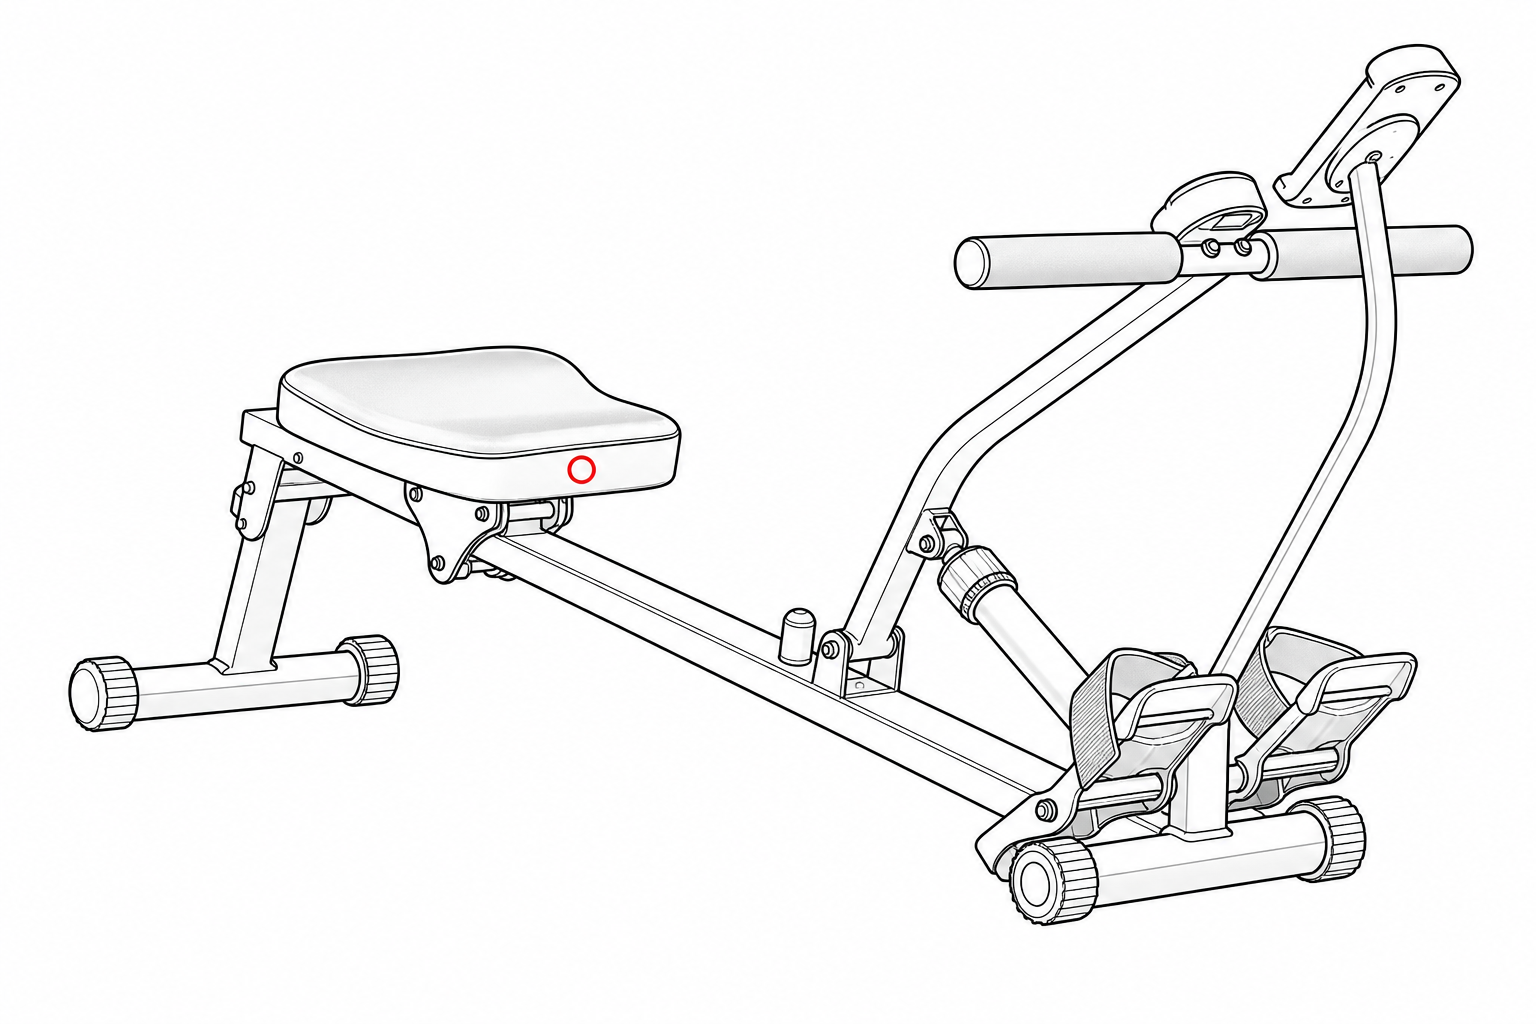
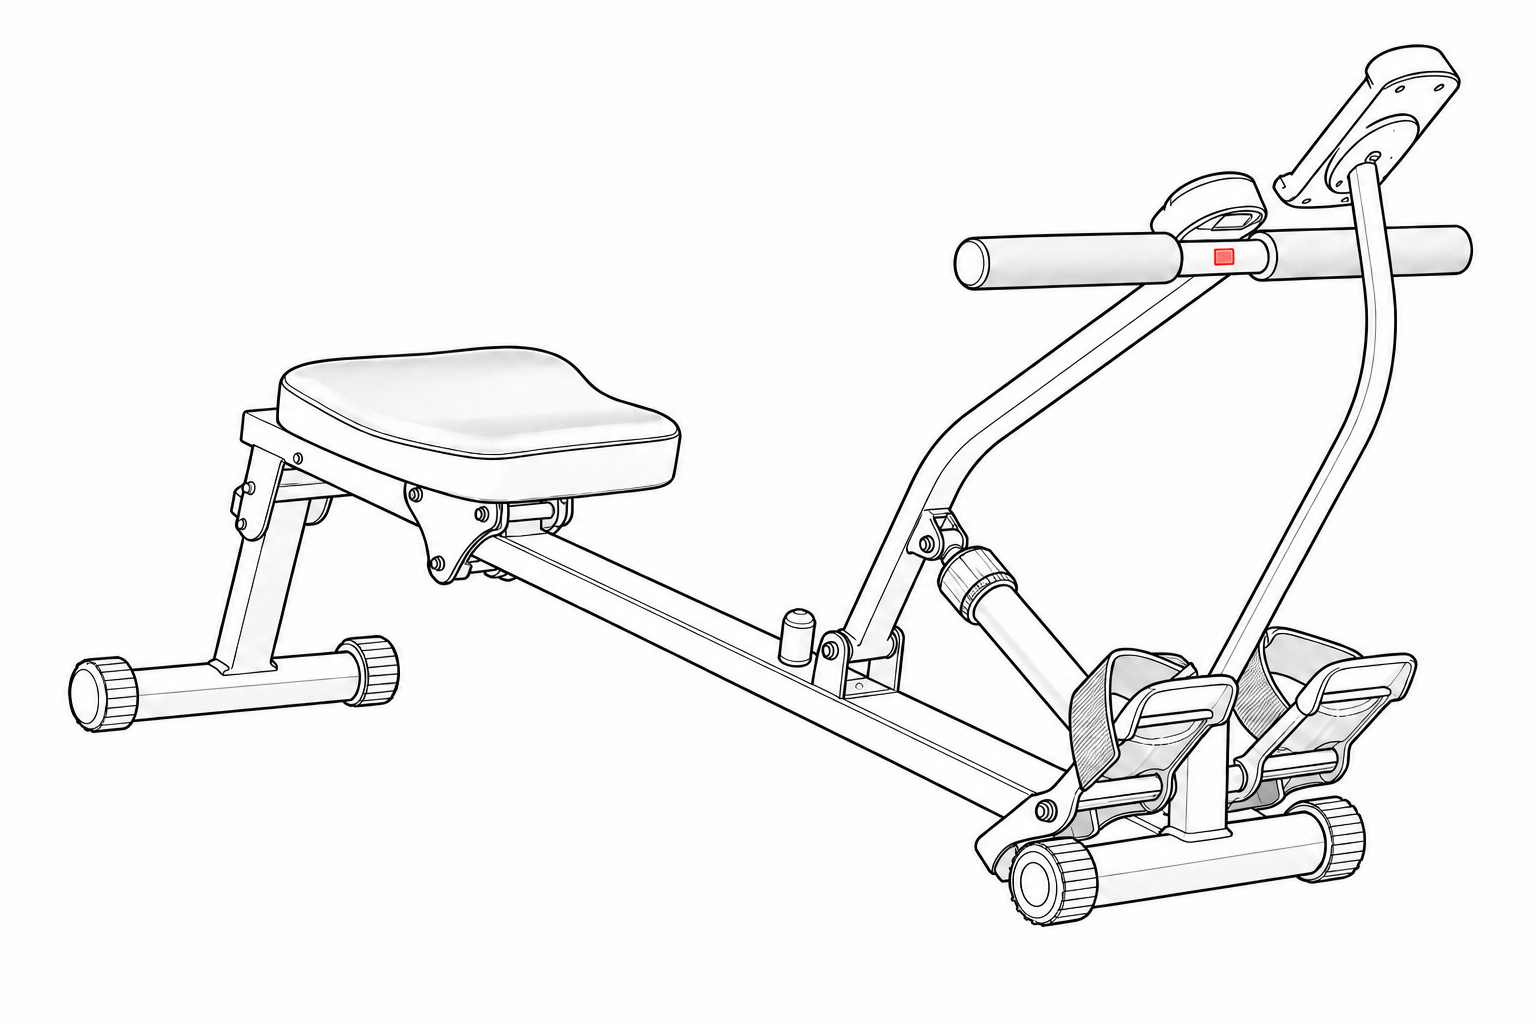
feat: update images and instructions

diff --git a/components/sensor/sensor-placement-modal.tsx b/components/sensor/sensor-placement-modal.tsx
@@ -50,22 +50,16 @@ type Slide = {
   text: string;
 };
 
-const SLIDE_MACHINE: Slide = {
-  key: "machine",
+const SLIDE_HANDLEBAR: Slide = {
+  key: "handlebar",
   image: require("@/assets/images/sensor-placement-1.png"),
-  text: "Locate the front face of the seat on your rowing machine.",
-};
-
-const SLIDE_SENSOR: Slide = {
-  key: "sensor",
-  image: require("@/assets/images/sensor-placement-2.png"),
-  text: "Attach the sensor to the front of the seat using double-sided tape or velcro.",
+  text: "Attach the sensor to the side of the handlebar using double-sided tape or velcro.",
 };
 
 const SLIDE_PHONE: Slide = {
   key: "phone",
   image: require("@/assets/images/sensor-placement-3.png"),
-  text: "If using your phone, attach it to the side of the seat. You\u2019re less likely to bump it there.",
+  text: "If you\u2019re using your phone instead, attach it to the side of the seat \u2014 you\u2019re less likely to bump it there.",
 };
 
 type Props = {
@@ -85,9 +79,7 @@ export function SensorPlacementModal({ visible, onDismiss, source }: Props) {
 
   const slides = useMemo<Slide[]>(
     () =>
-      source === "phone"
-        ? [SLIDE_MACHINE, SLIDE_SENSOR, SLIDE_PHONE]
-        : [SLIDE_MACHINE, SLIDE_SENSOR],
+      source === "phone" ? [SLIDE_HANDLEBAR, SLIDE_PHONE] : [SLIDE_HANDLEBAR],
     [source],
   );
 
@@ -160,20 +152,22 @@ export function SensorPlacementModal({ visible, onDismiss, source }: Props) {
             style={styles.carousel}
           />
 
-          <View style={styles.dots}>
-            {slides.map((s, i) => (
-              <View
-                key={s.key}
-                style={[
-                  styles.dot,
-                  {
-                    backgroundColor:
-                      i === activeIndex ? palette.dotActive : palette.dot,
-                  },
-                ]}
-              />
-            ))}
-          </View>
+          {slides.length > 1 ? (
+            <View style={styles.dots}>
+              {slides.map((s, i) => (
+                <View
+                  key={s.key}
+                  style={[
+                    styles.dot,
+                    {
+                      backgroundColor:
+                        i === activeIndex ? palette.dotActive : palette.dot,
+                    },
+                  ]}
+                />
+              ))}
+            </View>
+          ) : null}
 
           <ThemedText style={[styles.body, { color: palette.body }]}>
             {slides[activeIndex]?.text}
